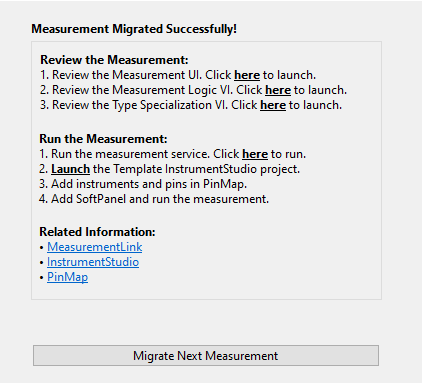
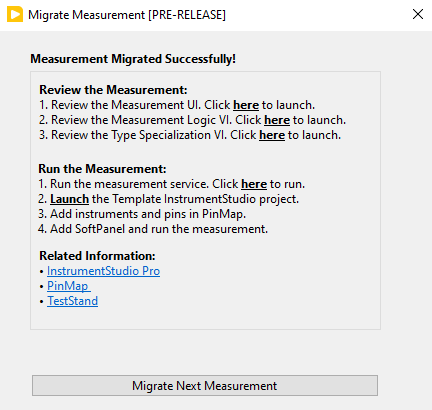
Updated the image and HLD for the migration tool

diff --git a/docs/Migration Utility HLD/Create Measurement Plugin HLD.md b/docs/Migration Utility HLD/Create Measurement Plugin HLD.md
@@ -43,7 +43,7 @@
 To launch migration tool, Open LabVIEW->Tools->Plug-Ins->Measurement->Migrate Measurements. Migration Tool can be an independent tool.
 
 Cons:
-1. Number of VI packages for InstrumentStudio pro will increase
+1. Number of options shown to the user will increase
 
 ![IndependentTool](IndependentTool.png)
 
@@ -104,7 +104,7 @@ Before migration of the measurement, the measurement along with its dependencies
 
 ### Measurement Configuration and Result control updates
 
-The controls and indicators used in the measurement vi are copied to the configurations and results control respectively except few controls. The controls are io controls, tab controls, cluster controls and any string control related to channel of the instrument names. For all the io controls, a string dropdown is created in the configuration controls. For measurement having tab controls or indicators, the controls and indicators are read recursively and added to the configuration and result control respectively. Since cluster control/indicator is not supported, a string control is created in the measurement configuration and results respectively . The cluster data are serialized to string and passed in the gRPC layer. The implementation of serialization and deserialization is handled in the ui and measurement logic.
+The controls and indicators used in the measurement vi are copied to the configurations and results control respectively except few controls. The controls are tab controls, cluster controls and any string control related to channel of the instrument names. The io controls are replaced with the string dropdown to populate the pin names to pass the pin names from the measurement ui. For measurement having tab controls or indicators, the controls and indicators are read recursively and added to the configuration and result control respectively. Since cluster control/indicator is not supported, a string control is created in the measurement configuration and results respectively . The cluster data are serialized to string and passed in the gRPC layer. The implementation of serialization and deserialization is handled in the ui and measurement logic.
 
 ### Measurement UI creation
 
@@ -116,21 +116,18 @@ Pros:
 
 Cons:
 1. Measurements having splitters will result in the messy Measurement UI.
-2. The UI actions are not migrated with this tool
-
-Discussions
-1. Should the typedef used in the UI be disconnected form the typedef? Since there is separate library for Measurement UI, should the controls be added to the library?
+2. The UI events are not migrated with this tool.
 
 ### Measurement Logic Creation
+
+In the selected measurement, all the controls and indicators are mapped and connected in the connector pane. 
+A wrapper is created for the selected measurement. In the wrapper, Measurement configuration control and measurement results indicator are placed and unbundling the configuration data and bundling the results data is handled. Controls are created for io controls that are used in the measurement and mapped in the connector pane in the wrapper. For cluster control/indicators are serialization and deserialization logic is also implemented by the tool.
 
 There are measurement without any instruments drivers. For measurement without any instrument drivers, the wrapper created is placed directly in the measurement logic vi. For the measurement which uses instrument drivers will always be converted to pin centrics measurement and session manager APIs are placed in the measurement logic. Session manager APIs includes, reserve session, initialize and get connections for the instrument used, close sessions and unreserve session are placed and wired. 
 
 The pin to session conversion is not automated by the migration tool. Users should convert them.
-Ther below is the image of the measurement logic post migration.
+The below is the image of the measurement logic post migration.
 Wire the Pin Names to the corresponding input of the Get Resource Details.vim. Get Resource Details.vim will give the session and channel for the corresponding pin connected.
-
-In the main measurement, all the controls and indicators are mapped and connected in the connector pane. 
-A wrapper is created for the measurement. In the wrapper, Measurement configuration control and measurement results indicator are placed and unbundling the configuration data and bundling the results data is handled. And controls are created for io controls that are used in the measurement and mapped in the connector pane in the wrapper. For cluster control/indicators are serialization and deserialization logic is also implemented by the tool.
 
 ![post_migration1](post_migration1.png)
 
@@ -157,8 +154,10 @@ The tool has been tested with different [sample measurement](https://github.com/
 9. If the io controls are part of the cluster control, they cannot be indentified.
 10. For all the unsupported datatype, workaround has to be implemented.
 11. The default value for the string will be empty and hence if users add the service IS Pro and click run, empty string will passed to the Measurement Logic and will result in error.
-12. Copy paste functionality between soft panel or teststand will not update the cluster controls value(UI glitch)
+12. Copy paste functionality between soft panel or teststand will not update the cluster controls value, since clusters are not supported by the IS Pro.
 13. The pin to session conversion is not automated. Users should obtain the session details and connect it to the wrapper.
+14. The typedef used in the clusters are disconnected from the source. This is because, we have PPL for the ui library and all dependencies are copied the measurement library. So, PPL will not be built or will depend the source files.
+15. Measurement with array of io controls is not handled.
 
 ### Future Plans
 1. To automate the workaround implementation for the unsupported datatypes.
